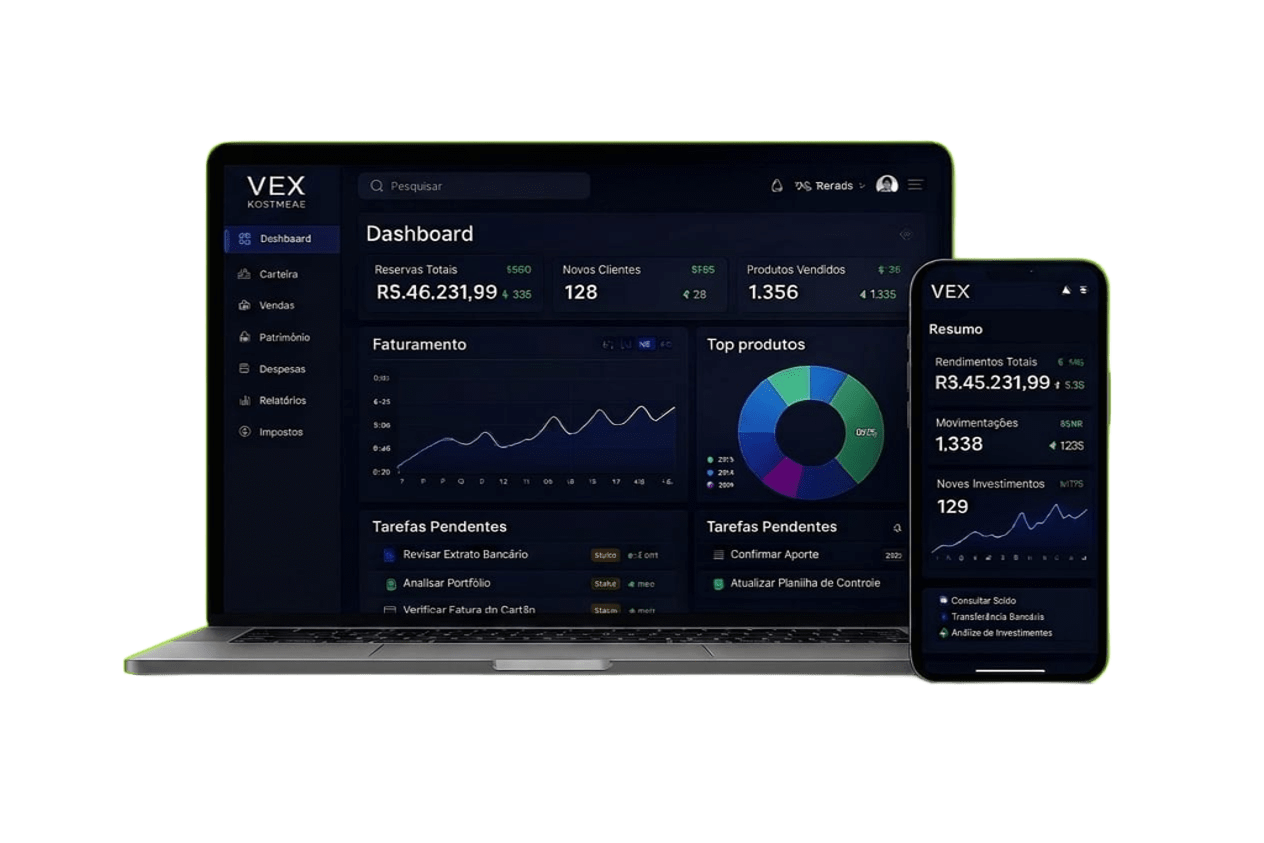
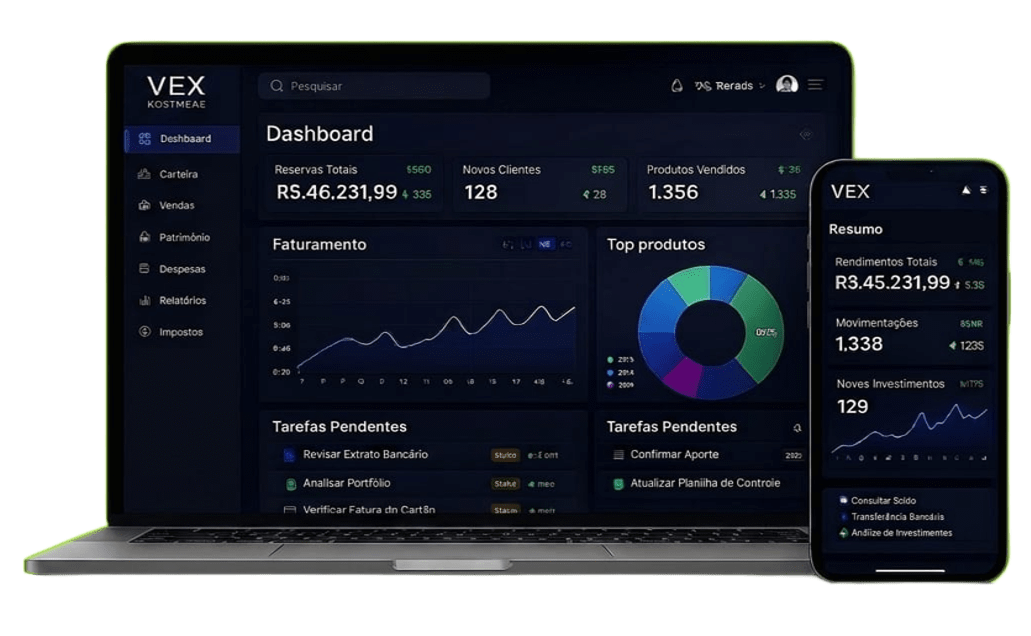
feat: seção de depoimentos e containers mais largos
- Adiciona Testimonials (+ ícone IconQuote e link "Depoimentos" na navbar),
  que passa a ocupar o lugar do LogoCloud na home
- Remove o badge do topo do Hero
- Substitui os max-w-7xl/6xl repetidos por duas utilities de container:
  .container-page (1536px) e .container-narrow (1280px), com padding
  lateral responsivo — reduz a margem morta em telas grandes

diff --git a/app/_components/Testimonials.tsx b/app/_components/Testimonials.tsx
@@ -1,0 +1,200 @@
+"use client";
+
+import { StaggerGroup, StaggerItem, Reveal } from "./Reveal";
+import { IconQuote, IconStar, IconCheckCircle } from "./icons";
+
+type Testimonial = {
+  quote: string;
+  name: string;
+  role: string;
+  company: string;
+  rating: number;
+};
+
+/**
+ * PLACEHOLDER — substituir por depoimentos reais (com autorização do cliente)
+ * antes de publicar.
+ */
+const featured: Testimonial = {
+  quote:
+    "Antes a gente controlava tudo no caderno e no WhatsApp. Hoje temos um sistema que mostra estoque, vendas e agenda em tempo real. Em três meses paramos de perder pedido e o faturamento cresceu.",
+  name: "Marina Alves",
+  role: "Sócia-proprietária",
+  company: "Bella Estética",
+  rating: 5,
+};
+
+const testimonials: Testimonial[] = [
+  {
+    quote:
+      "O agendamento online foi o divisor de águas. Os clientes marcam sozinhos, de madrugada, e minha equipe parou de perder tempo no telefone.",
+    name: "Rafael Menezes",
+    role: "Diretor",
+    company: "Auto Center Menezes",
+    rating: 5,
+  },
+  {
+    quote:
+      "A automação do WhatsApp responde os clientes na hora. Triplicamos os orçamentos enviados sem contratar ninguém novo.",
+    name: "Diego Fontana",
+    role: "Fundador",
+    company: "Fontana Reformas",
+    rating: 5,
+  },
+  {
+    quote:
+      "O suporte é o que mais me impressiona: mandei mensagem num sábado e resolveram no mesmo dia. Parece que fazem parte da empresa.",
+    name: "Camila Ribeiro",
+    role: "Coordenadora administrativa",
+    company: "Clínica VidaMais",
+    rating: 5,
+  },
+];
+
+function initials(name: string) {
+  return name
+    .split(" ")
+    .slice(0, 2)
+    .map((part) => part[0])
+    .join("");
+}
+
+function Stars({ rating, tone = "light" }: { rating: number; tone?: "light" | "dark" }) {
+  return (
+    <div className="flex items-center gap-1">
+      <span className="sr-only">{`Avaliação: ${rating} de 5`}</span>
+      {Array.from({ length: 5 }, (_, i) => (
+        <IconStar
+          key={i}
+          aria-hidden="true"
+          fill="currentColor"
+          strokeWidth={0}
+          className={`h-4 w-4 ${
+            i < rating
+              ? tone === "dark"
+                ? "text-accent-400"
+                : "text-accent-500"
+              : "text-slate-300"
+          }`}
+        />
+      ))}
+    </div>
+  );
+}
+
+function Avatar({ name, tone = "light" }: { name: string; tone?: "light" | "dark" }) {
+  return (
+    <span
+      aria-hidden="true"
+      className={`inline-flex h-11 w-11 shrink-0 items-center justify-center rounded-full font-display text-sm font-semibold ${
+        tone === "dark"
+          ? "bg-white/10 text-brand-300 ring-1 ring-white/15"
+          : "bg-brand-50 text-brand-600 ring-1 ring-brand-100"
+      }`}
+    >
+      {initials(name)}
+    </span>
+  );
+}
+
+export default function Testimonials() {
+  return (
+    <section id="depoimentos" className="relative bg-slate-50 py-24">
+      <div className="container-page">
+        <Reveal
+          as="h2"
+          className="text-center font-display text-3xl font-bold tracking-tight text-navy-800 sm:text-4xl"
+        >
+          Quem já trabalha com a <span className="text-brand-500">VEX</span>
+        </Reveal>
+        <Reveal delay={0.1}>
+          <p className="mx-auto mt-4 max-w-xl text-center text-slate-500">
+            Empresas de verdade, resultados de verdade. Veja o que nossos clientes
+            dizem depois de tirar o negócio do improviso.
+          </p>
+        </Reveal>
+
+        <StaggerGroup className="mt-14 grid gap-5 sm:grid-cols-2 lg:grid-cols-3">
+          {/* Depoimento em destaque */}
+          <StaggerItem className="sm:col-span-2">
+            <figure className="card-hover relative h-full overflow-hidden rounded-2xl bg-[radial-gradient(120%_140%_at_0%_0%,#12275a_0%,#0a1124_60%)] p-8 shadow-glow ring-1 ring-white/10 sm:p-10">
+              <div className="bg-grid pointer-events-none absolute inset-0 opacity-40" />
+              <IconQuote
+                aria-hidden="true"
+                className="pointer-events-none absolute -right-2 -top-2 h-28 w-28 text-white/[0.06]"
+              />
+
+              <div className="relative flex h-full flex-col">
+                <Stars rating={featured.rating} tone="dark" />
+                <blockquote className="mt-5 font-display text-xl font-medium leading-relaxed text-white sm:text-2xl">
+                  “{featured.quote}”
+                </blockquote>
+
+                <figcaption className="mt-auto flex items-center gap-4 pt-8">
+                  <Avatar name={featured.name} tone="dark" />
+                  <div>
+                    <p className="font-semibold text-white">{featured.name}</p>
+                    <p className="text-sm text-slate-400">
+                      {featured.role} · {featured.company}
+                    </p>
+                  </div>
+                </figcaption>
+              </div>
+            </figure>
+          </StaggerItem>
+
+          {/* Selo de confiança */}
+          <StaggerItem>
+            <div className="card-hover flex h-full flex-col justify-center rounded-2xl border border-slate-200 bg-white p-8 text-center shadow-soft">
+              <p className="font-display text-5xl font-bold tracking-tight text-navy-800">
+                4,9
+                <span className="text-2xl text-slate-400">/5</span>
+              </p>
+              <div className="mt-3 flex justify-center">
+                <Stars rating={5} />
+              </div>
+              <p className="mt-4 text-sm leading-relaxed text-slate-500">
+                Média de satisfação em mais de{" "}
+                <strong className="font-semibold text-navy-800">80 projetos</strong>{" "}
+                entregues para empresas de todo o Brasil.
+              </p>
+              <p className="mt-5 inline-flex items-center justify-center gap-2 text-sm font-medium text-accent-500">
+                <IconCheckCircle aria-hidden="true" className="h-5 w-5" />
+                Depoimentos verificados
+              </p>
+            </div>
+          </StaggerItem>
+
+          {/* Demais depoimentos */}
+          {testimonials.map((t) => (
+            <StaggerItem key={t.name}>
+              <figure className="card-hover group flex h-full flex-col rounded-2xl border border-slate-200 bg-white p-6 shadow-soft">
+                <div className="flex items-center justify-between">
+                  <Stars rating={t.rating} />
+                  <IconQuote
+                    aria-hidden="true"
+                    className="h-7 w-7 text-brand-100 transition-colors duration-300 group-hover:text-brand-300"
+                  />
+                </div>
+
+                <blockquote className="mt-4 text-sm leading-relaxed text-slate-600">
+                  “{t.quote}”
+                </blockquote>
+
+                <figcaption className="mt-auto flex items-center gap-3 pt-6">
+                  <Avatar name={t.name} />
+                  <div>
+                    <p className="text-sm font-semibold text-navy-800">{t.name}</p>
+                    <p className="text-xs text-slate-500">
+                      {t.role} · {t.company}
+                    </p>
+                  </div>
+                </figcaption>
+              </figure>
+            </StaggerItem>
+          ))}
+        </StaggerGroup>
+      </div>
+    </section>
+  );
+}

diff --git a/app/_components/Hero.tsx b/app/_components/Hero.tsx
@@ -56,17 +56,9 @@ export default function Hero() {
       {/* Main content — the whole block (copy + devices + bullets) is
           vertically centered together so nothing drifts to the bottom edge */}
       <div className="relative z-10 flex flex-1 flex-col justify-center pt-20 pb-8 lg:pt-16">
-        <div className="mx-auto grid w-full max-w-7xl items-center gap-10 px-6 lg:grid-cols-[1fr_1.15fr] lg:gap-10 lg:px-10">
+        <div className="container-page grid items-center gap-10 lg:grid-cols-[1fr_1.15fr] lg:gap-10">
           {/* Copy */}
           <div>
-            <span className="hero-badge inline-flex items-center gap-2 rounded-full border border-white/15 bg-white/5 px-3.5 py-1.5 text-[0.7rem] font-medium text-slate-200 backdrop-blur-sm">
-              <span className="relative flex h-1.5 w-1.5">
-                <span className="absolute inline-flex h-full w-full animate-ping rounded-full bg-accent-400 opacity-75" />
-                <span className="relative inline-flex h-1.5 w-1.5 rounded-full bg-accent-500" />
-              </span>
-              Software sob medida para pequenas e médias empresas
-            </span>
-
             <h1 className="mt-5 font-display text-[2rem] font-bold leading-[1.1] tracking-tight sm:text-[2.5rem] lg:text-[2.75rem]">
               <span className="hero-line block">Tecnologia que faz</span>
               <span className="hero-line block">
@@ -107,7 +99,7 @@ export default function Hero() {
         </div>
 
         {/* Trust bullets — single inline row when there's space, wraps gracefully */}
-        <div className="mx-auto mt-10 w-full max-w-6xl px-6 lg:mt-12 lg:px-10">
+        <div className="container-page mt-10 lg:mt-12">
           <div className="flex flex-wrap items-center justify-center gap-x-7 gap-y-3 border-t border-white/10 pt-5 text-[0.8rem] text-slate-300 lg:justify-start">
             {bullets.map((b) => (
               <span key={b} className="hero-bullet flex items-center gap-2 whitespace-nowrap">

diff --git a/app/globals.css b/app/globals.css
@@ -93,6 +93,43 @@ body {
 /* ============================================================
    Utilities
    ============================================================ */
+
+/* Container padrão do site. Substitui o antigo `mx-auto max-w-7xl px-6 lg:px-10`
+   espalhado pelas seções — largura maior e padding que cresce com a viewport,
+   para não sobrar margem morta em telas grandes. */
+@utility container-page {
+  width: 100%;
+  margin-inline: auto;
+  max-width: 96rem; /* 1536px */
+  padding-inline: 1.25rem;
+
+  @media (width >= 40rem) {
+    padding-inline: 2rem;
+  }
+  @media (width >= 64rem) {
+    padding-inline: 3rem;
+  }
+  @media (width >= 96rem) {
+    padding-inline: 4rem;
+  }
+}
+
+/* Variante para conteúdo de leitura (FAQ, stats, CTA), onde linhas muito
+   largas prejudicam a legibilidade. */
+@utility container-narrow {
+  width: 100%;
+  margin-inline: auto;
+  max-width: 80rem; /* 1280px */
+  padding-inline: 1.25rem;
+
+  @media (width >= 40rem) {
+    padding-inline: 2rem;
+  }
+  @media (width >= 64rem) {
+    padding-inline: 3rem;
+  }
+}
+
 .font-display {
   font-family: var(--font-poppins), system-ui, sans-serif;
 }

diff --git a/app/_components/Navbar.tsx b/app/_components/Navbar.tsx
@@ -9,6 +9,7 @@ const links = [
   { label: "Soluções", href: "#solucoes" },
   { label: "Projetos", href: "#projetos" },
   { label: "Como funciona", href: "#processo" },
+  { label: "Depoimentos", href: "#depoimentos" },
   { label: "Sobre nós", href: "#sobre" },
   { label: "Blog", href: "#blog" },
 ];
@@ -46,10 +47,10 @@ export default function Navbar() {
           : "bg-transparent"
       }`}
     >
-      <nav className="mx-auto flex max-w-7xl items-center justify-between px-6 py-4 lg:px-10">
+      <nav className="container-page flex items-center justify-between py-4">
         <Logo />
 
-        <ul className="hidden items-center gap-8 text-sm text-slate-300 lg:flex">
+        <ul className="hidden items-center gap-6 text-sm text-slate-300 lg:flex xl:gap-8">
           {links.map((link, i) => (
             <li key={link.label}>
               <a

diff --git a/app/page.tsx b/app/page.tsx
@@ -5,6 +5,7 @@ import ProblemSection from "./_components/ProblemSection";
 import Services from "./_components/Services";
 import Stats from "./_components/Stats";
 import Process from "./_components/Process";
+import Testimonials from "./_components/Testimonials";
 import LogoCloud from "./_components/LogoCloud";
 import Faq from "./_components/Faq";
 import CtaBanner from "./_components/CtaBanner";
@@ -21,7 +22,7 @@ export default function Home() {
         <Services />
         <Stats />
         <Process />
-        <LogoCloud />
+        <Testimonials />
         <Faq />
         <CtaBanner />
       </main>

diff --git a/app/_components/Stats.tsx b/app/_components/Stats.tsx
@@ -52,7 +52,7 @@ export default function Stats() {
 
   return (
     <section className="relative -mt-px bg-slate-50 pb-10">
-      <div ref={root} className="mx-auto max-w-6xl px-6 lg:px-10">
+      <div ref={root} className="container-narrow">
         <div className="relative overflow-hidden rounded-3xl bg-[radial-gradient(120%_140%_at_0%_0%,#12275a_0%,#0a1124_60%)] px-6 py-10 shadow-glow ring-1 ring-white/10 sm:px-10">
           <div className="bg-grid pointer-events-none absolute inset-0 opacity-40" />
           <div className="relative grid gap-8 sm:grid-cols-2 lg:grid-cols-4">

diff --git a/app/_components/Faq.tsx b/app/_components/Faq.tsx
@@ -81,7 +81,7 @@ export default function Faq() {
       <div className="bg-grid pointer-events-none absolute inset-0 opacity-40 bg-radial-fade" />
       <div className="pointer-events-none absolute -left-32 top-1/4 h-80 w-80 rounded-full bg-brand-600/20 blur-[120px]" />
 
-      <div className="relative mx-auto max-w-6xl px-6 lg:px-10">
+      <div className="relative container-narrow">
         <Reveal as="h2" className="text-center font-display text-3xl font-bold tracking-tight sm:text-4xl">
           Perguntas <span className="text-accent-400">frequentes</span>
         </Reveal>

diff --git a/app/_components/CtaBanner.tsx b/app/_components/CtaBanner.tsx
@@ -6,7 +6,7 @@ import { IconArrowRight, IconChatBubble } from "./icons";
 export default function CtaBanner() {
   return (
     <section id="contato" className="relative bg-navy-800 pb-24">
-      <div className="mx-auto max-w-6xl px-6 lg:px-10">
+      <div className="container-narrow">
         <Reveal>
           <div className="relative overflow-hidden rounded-3xl bg-[linear-gradient(120deg,#2563eb,#1e40af)] px-8 py-10 shadow-glow sm:px-12">
             {/* decorative shimmer */}

diff --git a/app/_components/Footer.tsx b/app/_components/Footer.tsx
@@ -35,7 +35,7 @@ export default function Footer() {
   return (
     <footer className="relative overflow-hidden bg-navy-900 pt-16 text-slate-400">
       <div className="bg-grid pointer-events-none absolute inset-0 opacity-30" />
-      <div className="relative mx-auto max-w-7xl px-6 lg:px-10">
+      <div className="relative container-page">
         <div className="grid gap-12 pb-12 md:grid-cols-2 lg:grid-cols-[1.4fr_1fr_1fr_1.2fr]">
           {/* Brand */}
           <div>

diff --git a/app/_components/ProblemSection.tsx b/app/_components/ProblemSection.tsx
@@ -17,7 +17,7 @@ export default function ProblemSection() {
 
   return (
     <section id="sobre" className="relative bg-white py-24">
-      <div className="mx-auto grid max-w-7xl items-center gap-14 px-6 lg:grid-cols-2 lg:px-10">
+      <div className="container-page grid items-center gap-14 lg:grid-cols-2">
         {/* Copy */}
         <div>
           <Reveal as="h2" className="font-display text-3xl font-bold leading-tight tracking-tight text-navy-800 sm:text-4xl">

diff --git a/app/_components/Services.tsx b/app/_components/Services.tsx
@@ -65,7 +65,7 @@ const services: Service[] = [
 export default function Services() {
   return (
     <section id="solucoes" className="relative bg-slate-50 py-24">
-      <div className="mx-auto max-w-7xl px-6 lg:px-10">
+      <div className="container-page">
         <Reveal as="h2" className="text-center font-display text-3xl font-bold tracking-tight text-navy-800 sm:text-4xl">
           Como podemos <span className="text-brand-500">ajudar</span>
         </Reveal>

diff --git a/app/_components/Process.tsx b/app/_components/Process.tsx
@@ -66,7 +66,7 @@ export default function Process() {
 
   return (
     <section id="processo" className="relative bg-white py-24">
-      <div className="mx-auto max-w-7xl px-6 lg:px-10">
+      <div className="container-page">
         <Reveal as="h2" className="text-center font-display text-3xl font-bold tracking-tight text-navy-800 sm:text-4xl">
           Como funciona o nosso <span className="text-brand-500">processo</span>
         </Reveal>
